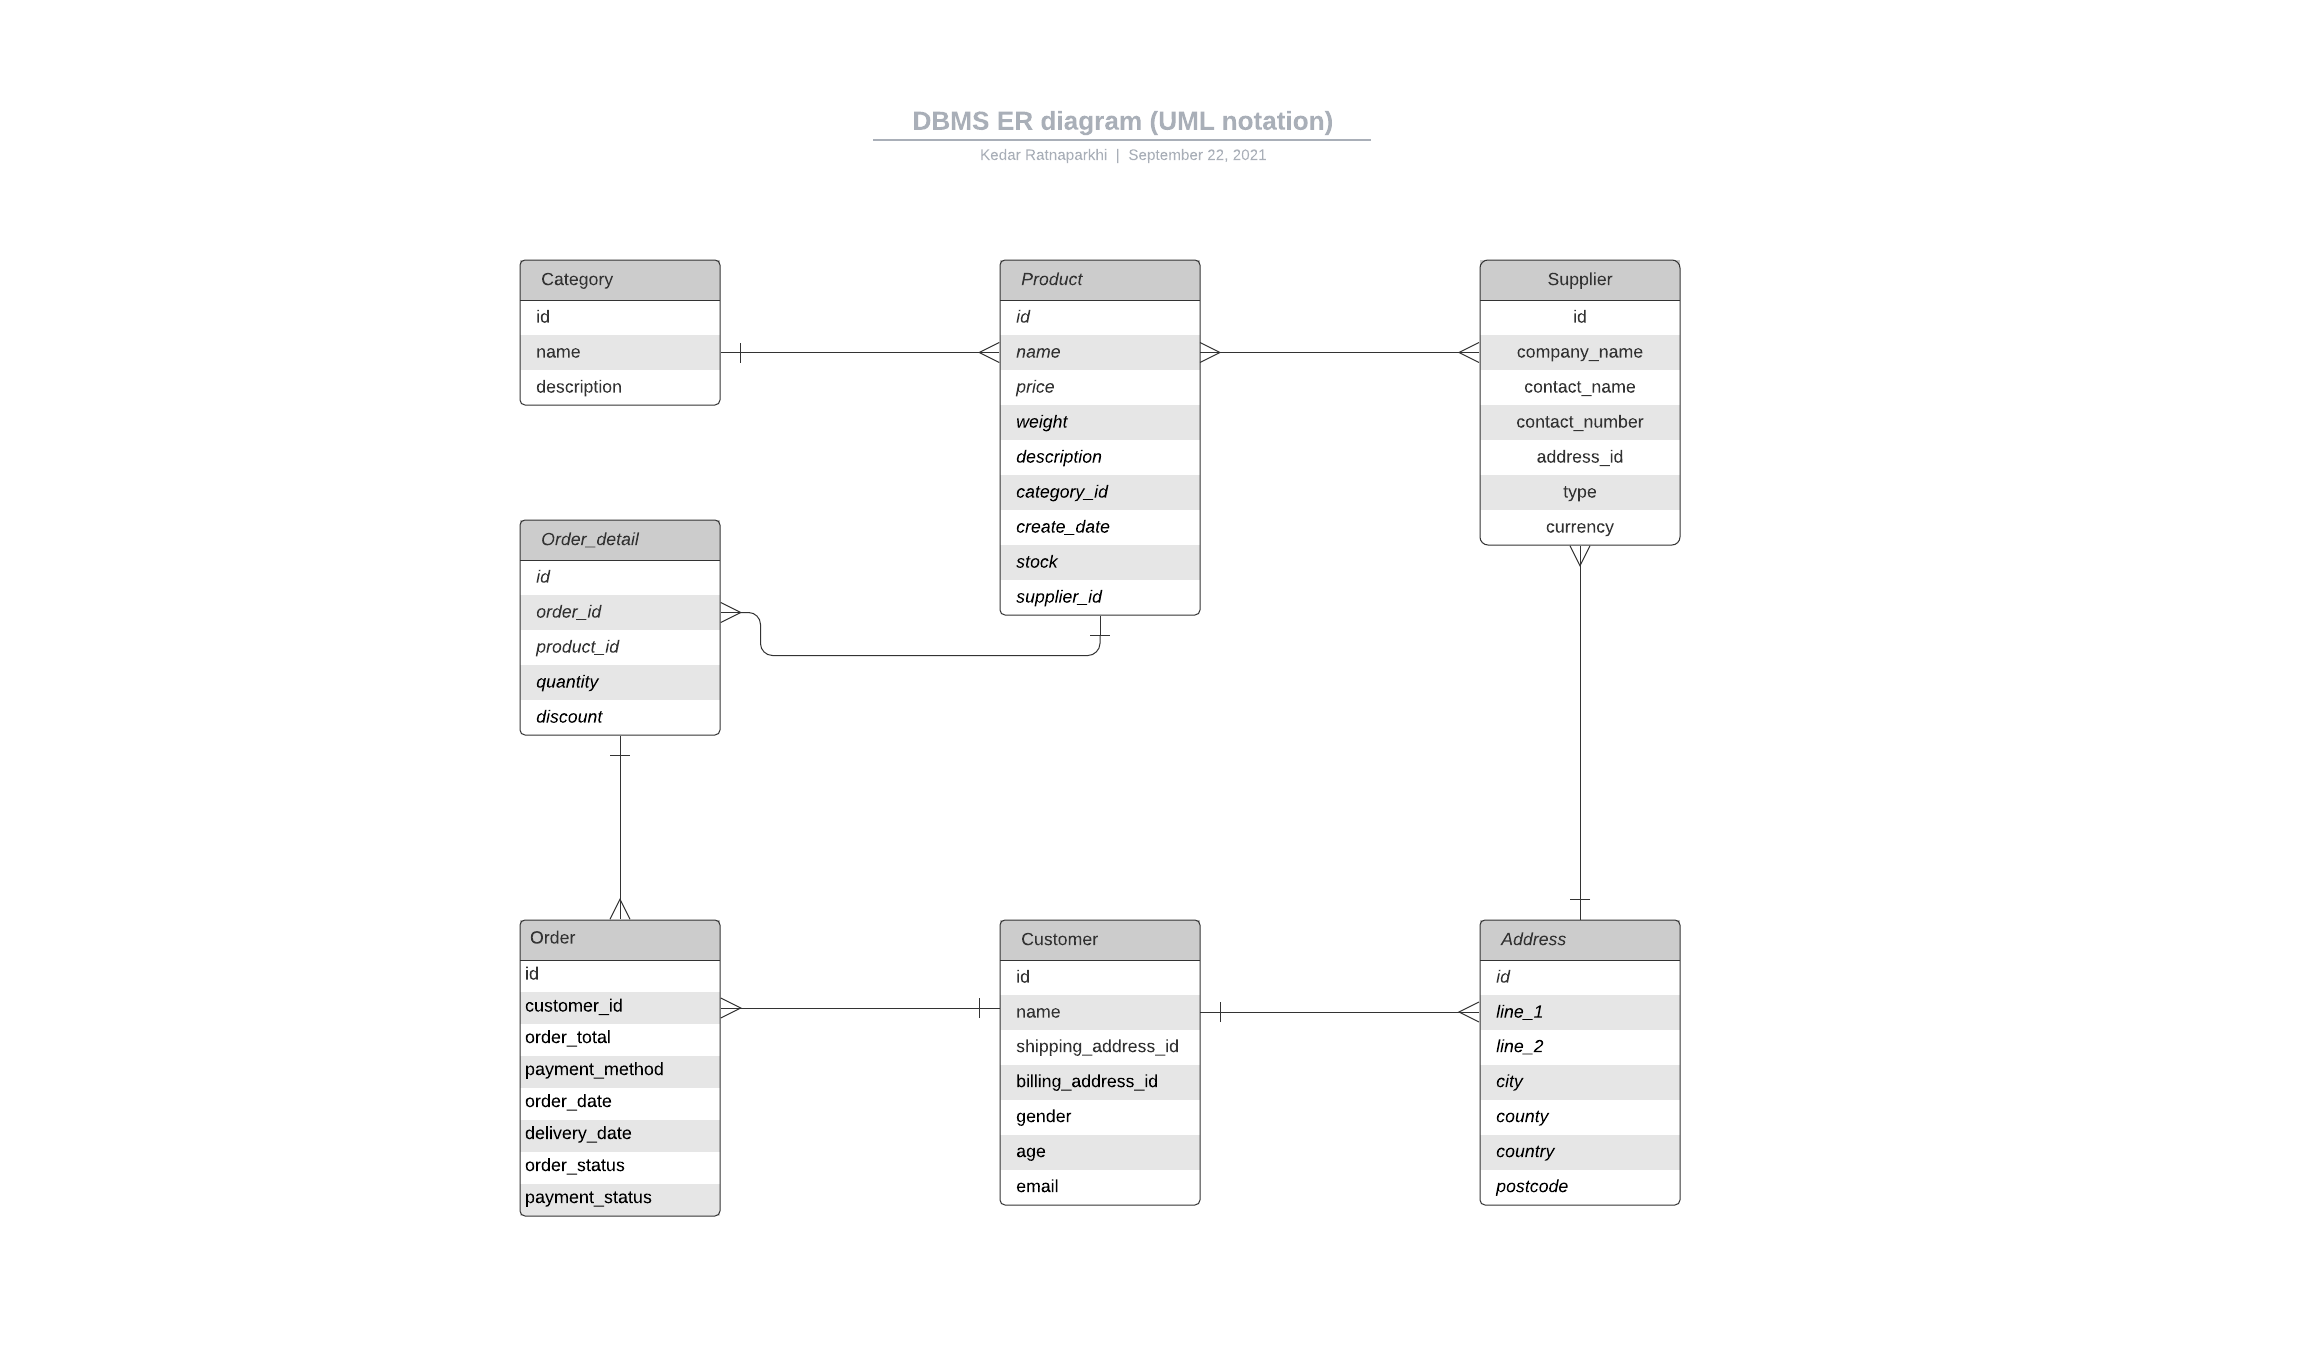
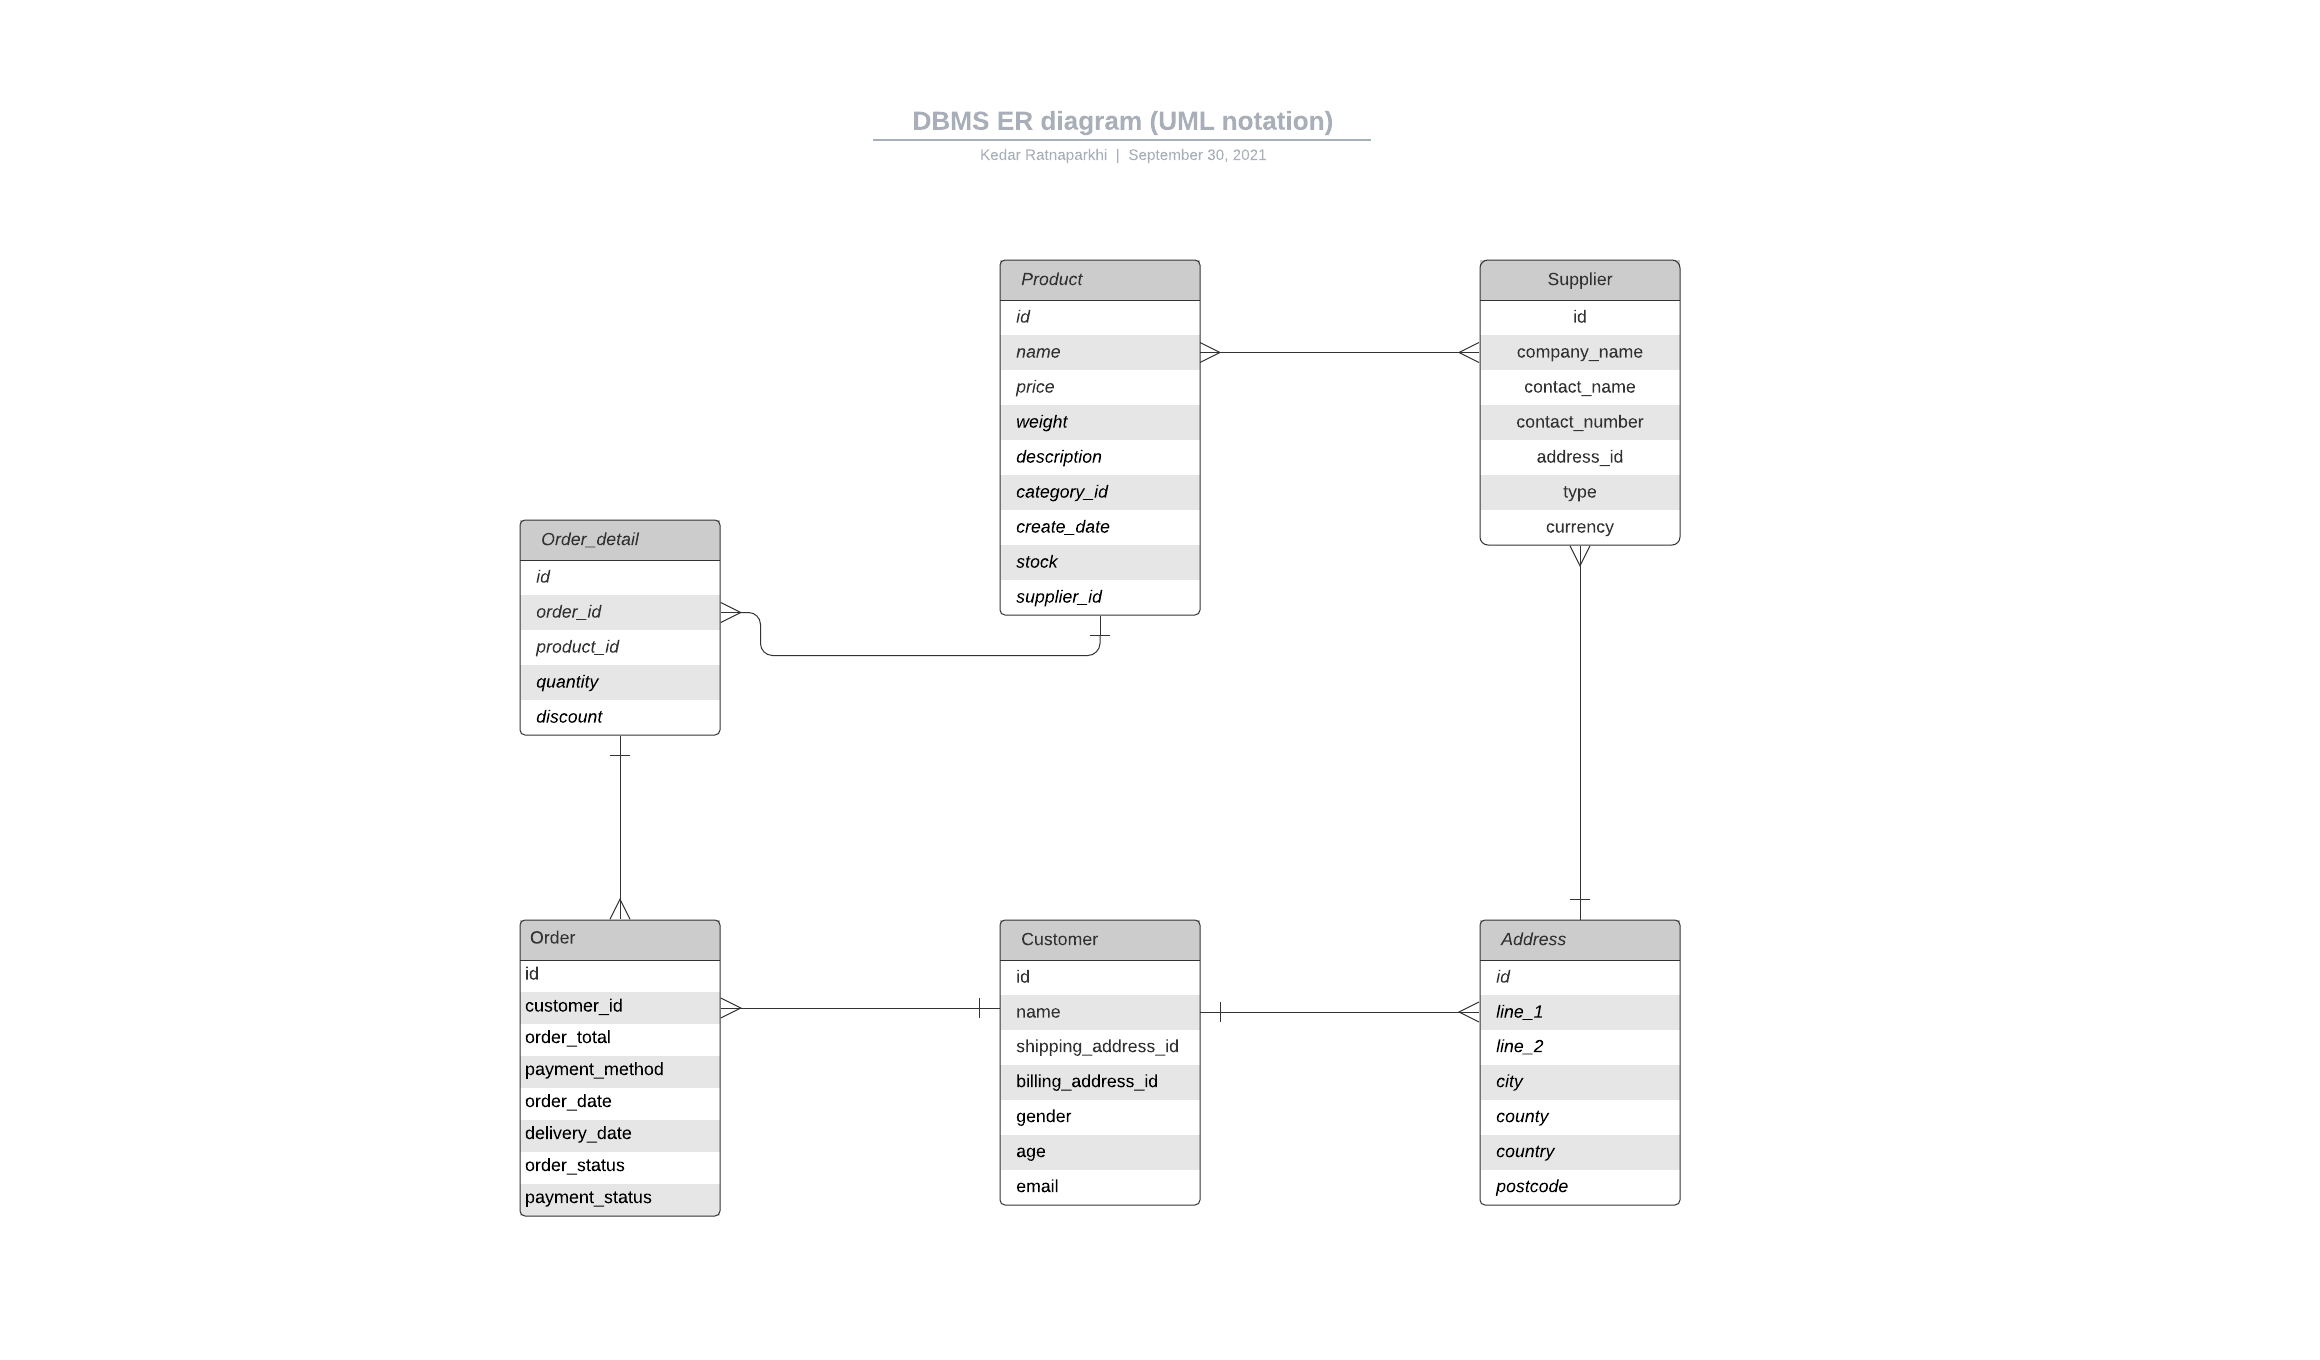
updated domain model

Changed region(s): [[0.2172, 0.1853, 0.3103, 0.3088]]

diff --git a/src/main/java/com/kedar/ecommerce/controller/CategoryController.java b/src/main/java/com/kedar/ecommerce/controller/CategoryController.java
@@ -1,35 +1,14 @@
 package com.kedar.ecommerce.controller;
 
-import com.google.gson.Gson;
-import com.kedar.ecommerce.domain.Category;
-import com.kedar.ecommerce.repo.CategoryRepository;
-import org.springframework.beans.factory.annotation.Autowired;
 import org.springframework.web.bind.annotation.GetMapping;
-import org.springframework.web.bind.annotation.PostMapping;
-import org.springframework.web.bind.annotation.RequestBody;
 import org.springframework.web.bind.annotation.RestController;
 
 @RestController
 public class CategoryController {
-
-    private CategoryRepository categoryRepository;
-
-    @Autowired
-    public CategoryController(CategoryRepository categoryRepository){
-        this.categoryRepository = categoryRepository;
-    }
 
     @GetMapping("/sample")
     public String helloWorld(){
         return "Hello World";
     }
 
-
-    @PostMapping("/addCategory")
-    public Category addCategory(@RequestBody String body){
-        Gson gson = new Gson();
-        Category obj = gson.fromJson(body, Category.class);
-        return categoryRepository.save(obj);
-        //todo: exception handling
-    }
 }

diff --git a/src/main/java/com/kedar/ecommerce/domain/Product.java b/src/main/java/com/kedar/ecommerce/domain/Product.java
@@ -1,7 +1,6 @@
 package com.kedar.ecommerce.domain;
 
 import lombok.Builder;
-import org.hibernate.criterion.Order;
 
 import javax.persistence.*;
 import java.util.Date;
@@ -15,7 +14,7 @@ public class Product {
     @GeneratedValue(strategy = GenerationType.AUTO)
     private Long id;
 
-    private String registeredName;
+    private String name;
 
     private Double price;
 
@@ -32,7 +31,7 @@ public class Product {
                                 inverseJoinColumns=@JoinColumn(name="prod_id", referencedColumnName="id"))
     private List<Supplier> suppliers;
 
-    @ManyToOne(fetch = FetchType.LAZY)
-    private Category category;
+    @Enumerated(EnumType.STRING)
+    private Supplier.SupplierType category;
 }
 

diff --git a/src/main/java/com/kedar/ecommerce/domain/Address.java b/src/main/java/com/kedar/ecommerce/domain/Address.java
@@ -54,6 +54,7 @@ public class Address {
 
     public enum AddressType{
         SHIPPING,
-        BILLING;
+        BILLING,
+        BUSINESS_REG;
     }
 }
